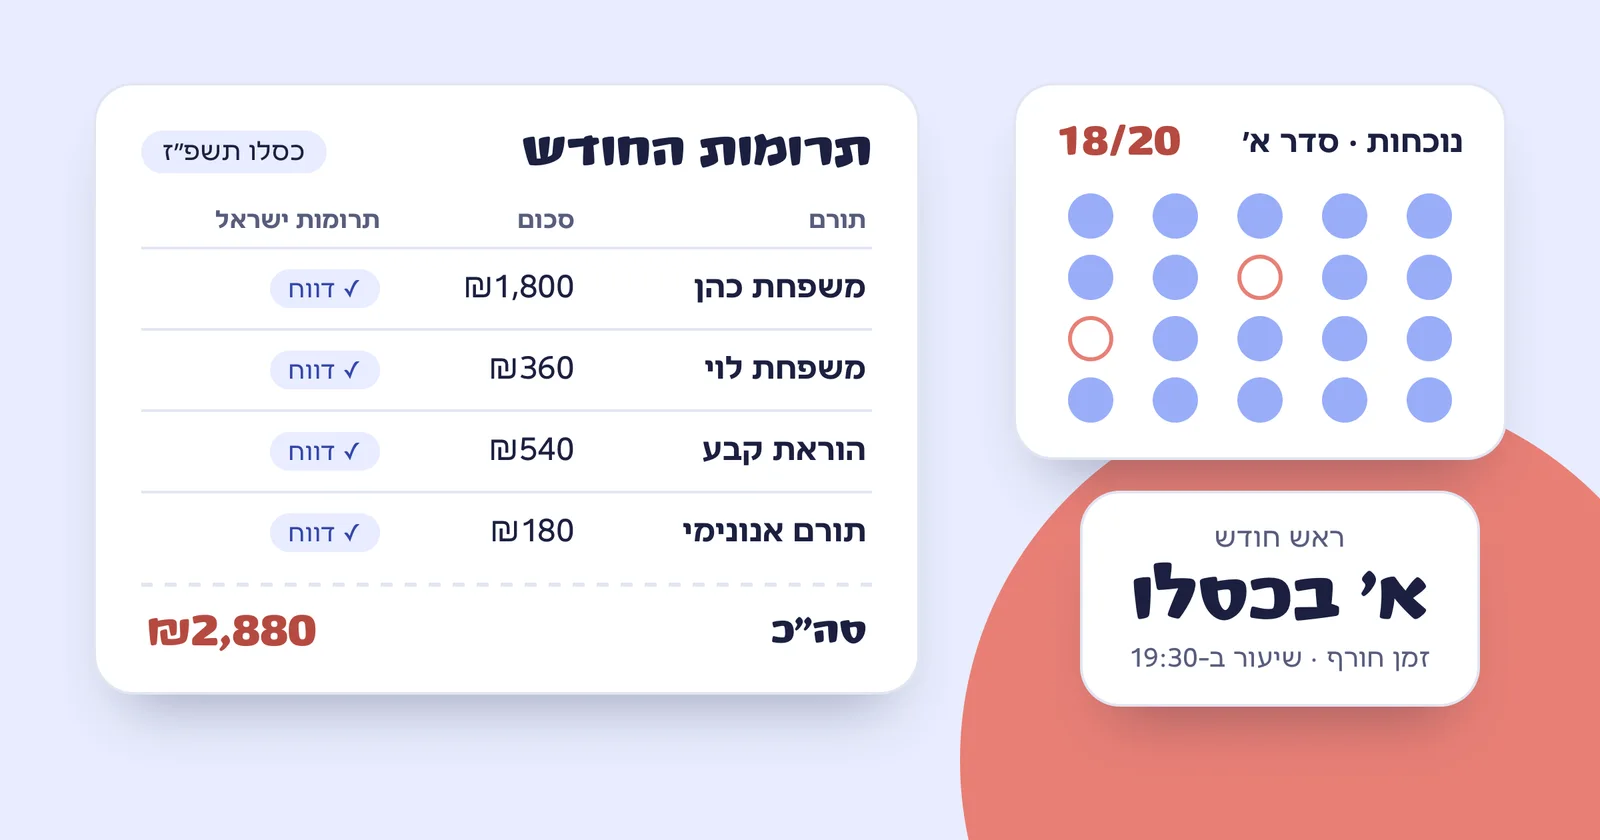
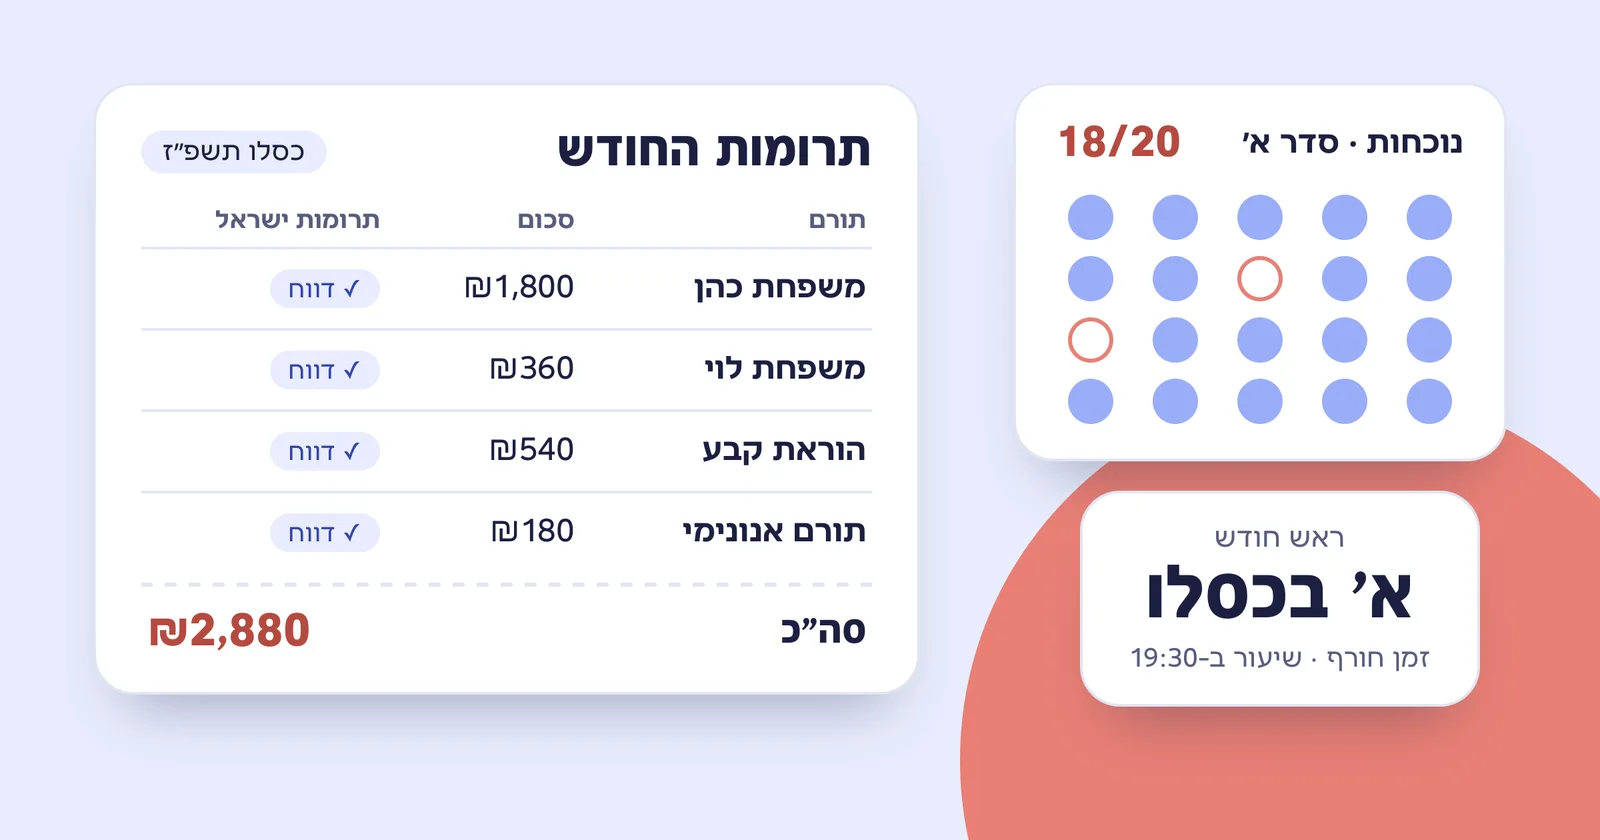
Headings in Unica Sans, and a new hero headline
- Headings switch from Crispy to Fb Unica Sans Bold, a calmer, more
  professional sans (Latin still falls through to Typograph Pro); the
  blog covers are re-rendered to match and the Crispy files are removed
- Hero headline: "כל העולם כולו AI, והעיקר לא לפחד כלל", sized so each
  half stays on one line at every width, with a plainer subline that says
  who I am and what I build

Claude-Session: https://claude.ai/code/session_01VVjhNk3GWv4vsP65pkx6Nn

diff --git a/components/home/Hero.js b/components/home/Hero.js
@@ -91,21 +91,22 @@ const Hero = () => {
       <HashLinkAnchor id="home" />
       <div className="grid lg:grid-cols-[1.15fr_1fr] items-center gap-x-10 gap-y-14">
         <div className="text-center lg:text-right">
-          <h1 className="font-display font-extrabold text-[2.6rem] leading-[1.08] sm:text-6xl lg:text-[4.4rem]">
+          {/* Two lines, each one line at every width: the size is fitted to the longer second line (~9.4em). */}
+          <h1 className="font-display font-extrabold text-[length:calc((100vw-2rem)/9.7)] leading-[1.1] sm:text-6xl lg:text-[3.3rem] xl:text-[3.85rem]">
             <span className="block">
-              יוצר{" "}
+              כל העולם כולו{" "}
               <span className="relative inline-block">
                 <span className="absolute -z-10 inset-x-[-0.12em] bottom-[0.1em] h-[0.28em] bg-coral" />
-                מוצרים
+                AI
               </span>
+              ,
             </span>
-            <span className="block">דיגיטליים, מהר</span>
-            <span className="block">ובאיכות גבוהה</span>
+            <span className="block">והעיקר לא לפחד כלל</span>
           </h1>
           <p className="mt-6 text-lg sm:text-xl text-ink-soft max-w-xl mx-auto lg:mx-0">
-            אם אתם יכולים לחלום את זה, אני יכול ליצור את זה. אתרים, חנויות
-            אונליין, אפליקציות וסוכני AI, בפיתוח מבוסס AI שחוסך לכם זמן בלי
-            לוותר על איכות.
+            אני ינון, מפתח מצפת. בונה אתרים, חנויות אונליין, אפליקציות וסוכני
+            AI, ומשתמש <span className="whitespace-nowrap">ב-AI</span> כדי לעבוד
+            מהר, בלי לוותר על איכות.
           </p>
           <div className="mt-9 flex flex-wrap justify-center lg:justify-start gap-3">
             <button

diff --git a/styles/globals.css b/styles/globals.css
@@ -4,18 +4,13 @@
   Self-hosted Fontbit fonts, one fixed-weight file per CSS weight, cut from the variable
   originals (Safari ignores remapped variable axes). Body text runs at 400 (Typograph's
   Regular). Browsers only download the weights a page uses.
-  Crispy has no Latin glyphs, so Latin in headings falls through to Typograph Pro.
+  Headings use Unica Sans Bold (its one weight covers both font-bold and font-extrabold).
+  Unica has no Latin letters, so Latin in headings ("AI") falls through to Typograph Pro.
 */
 @font-face {
-  font-family: "Fb Crispy";
-  src: url("/fonts/fb-crispy-700.woff2") format("woff2");
-  font-weight: 700;
-  font-display: swap;
-}
-@font-face {
-  font-family: "Fb Crispy";
-  src: url("/fonts/fb-crispy-800.woff2") format("woff2");
-  font-weight: 800;
+  font-family: "Fb Unica Sans";
+  src: url("/fonts/fb-unica-sans-700.woff2") format("woff2");
+  font-weight: 700 800;
   font-display: swap;
 }
 @font-face {
@@ -63,7 +58,7 @@
 
 @theme {
   --font-*: initial;
-  --font-display: "Fb Crispy", "Fb Typograph Pro", system-ui, sans-serif;
+  --font-display: "Fb Unica Sans", "Fb Typograph Pro", system-ui, sans-serif;
   --font-body: "Fb Typograph Pro", system-ui, -apple-system, "Segoe UI", sans-serif;
   --font-hand: "Playpen Sans Hebrew", "Fb Typograph Pro", cursive;
 

diff --git a/scripts/blog-covers/covers.css b/scripts/blog-covers/covers.css
@@ -1,5 +1,5 @@
 /* Shared look for blog covers: the site's palette, fonts and floating "chips". Canvas is 1200x630. */
-@font-face { font-family: "Crispy"; src: url("/public/fonts/fb-crispy-800.woff2"); font-weight: 800; }
+@font-face { font-family: "Display"; src: url("/public/fonts/fb-unica-sans-700.woff2"); font-weight: 700 800; }
 @font-face { font-family: "Typo"; src: url("/public/fonts/fb-typograph-pro-400.woff2"); font-weight: 400; }
 @font-face { font-family: "Typo"; src: url("/public/fonts/fb-typograph-pro-600.woff2"); font-weight: 600; }
 @font-face { font-family: "Typo"; src: url("/public/fonts/fb-typograph-pro-700.woff2"); font-weight: 700; }
@@ -37,7 +37,7 @@ body {
   border-radius: 30px;
   box-shadow: 0 28px 56px -24px rgba(27, 32, 64, 0.38);
 }
-.display { font-family: "Crispy", "Typo", sans-serif; font-weight: 800; }
+.display { font-family: "Display", "Typo", sans-serif; font-weight: 800; }
 .sb { font-weight: 600; }
 .b { font-weight: 700; }
 .soft { color: var(--soft); }

diff --git a/pages/_document.js b/pages/_document.js
@@ -6,7 +6,7 @@ export default function Document() {
       <Head>
         <link
           rel="preload"
-          href="/fonts/fb-crispy-800.woff2"
+          href="/fonts/fb-unica-sans-700.woff2"
           as="font"
           type="font/woff2"
           crossOrigin="anonymous"
